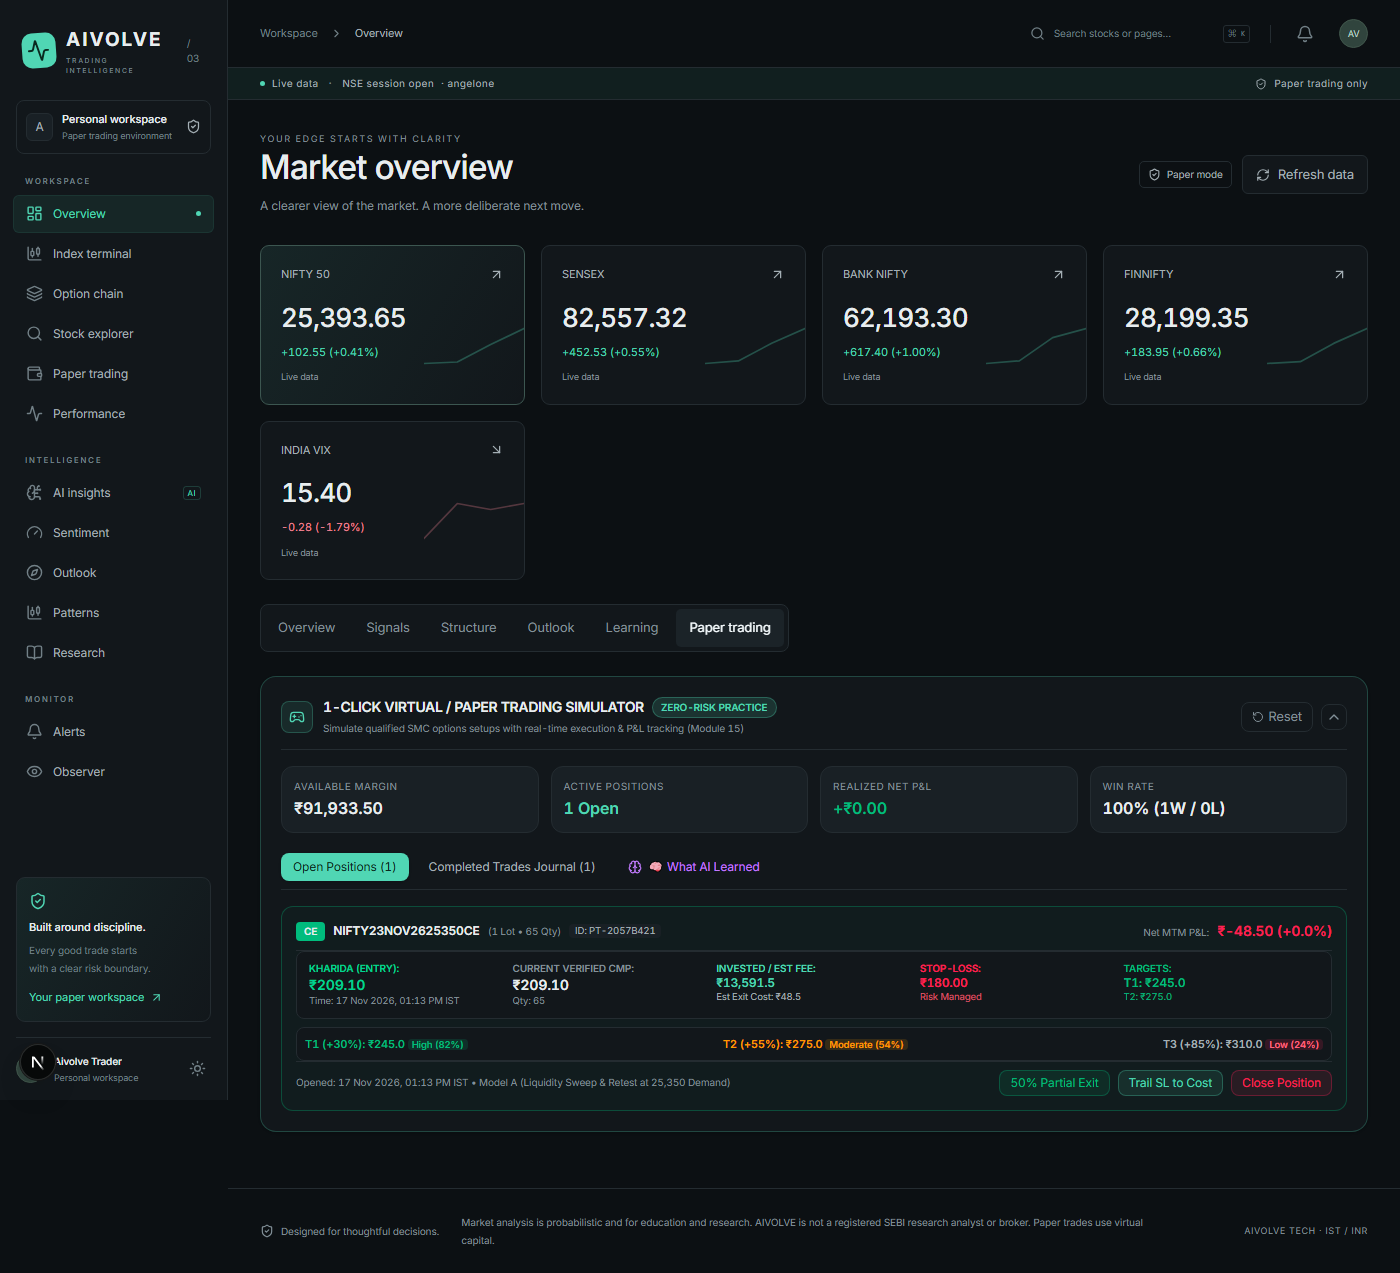
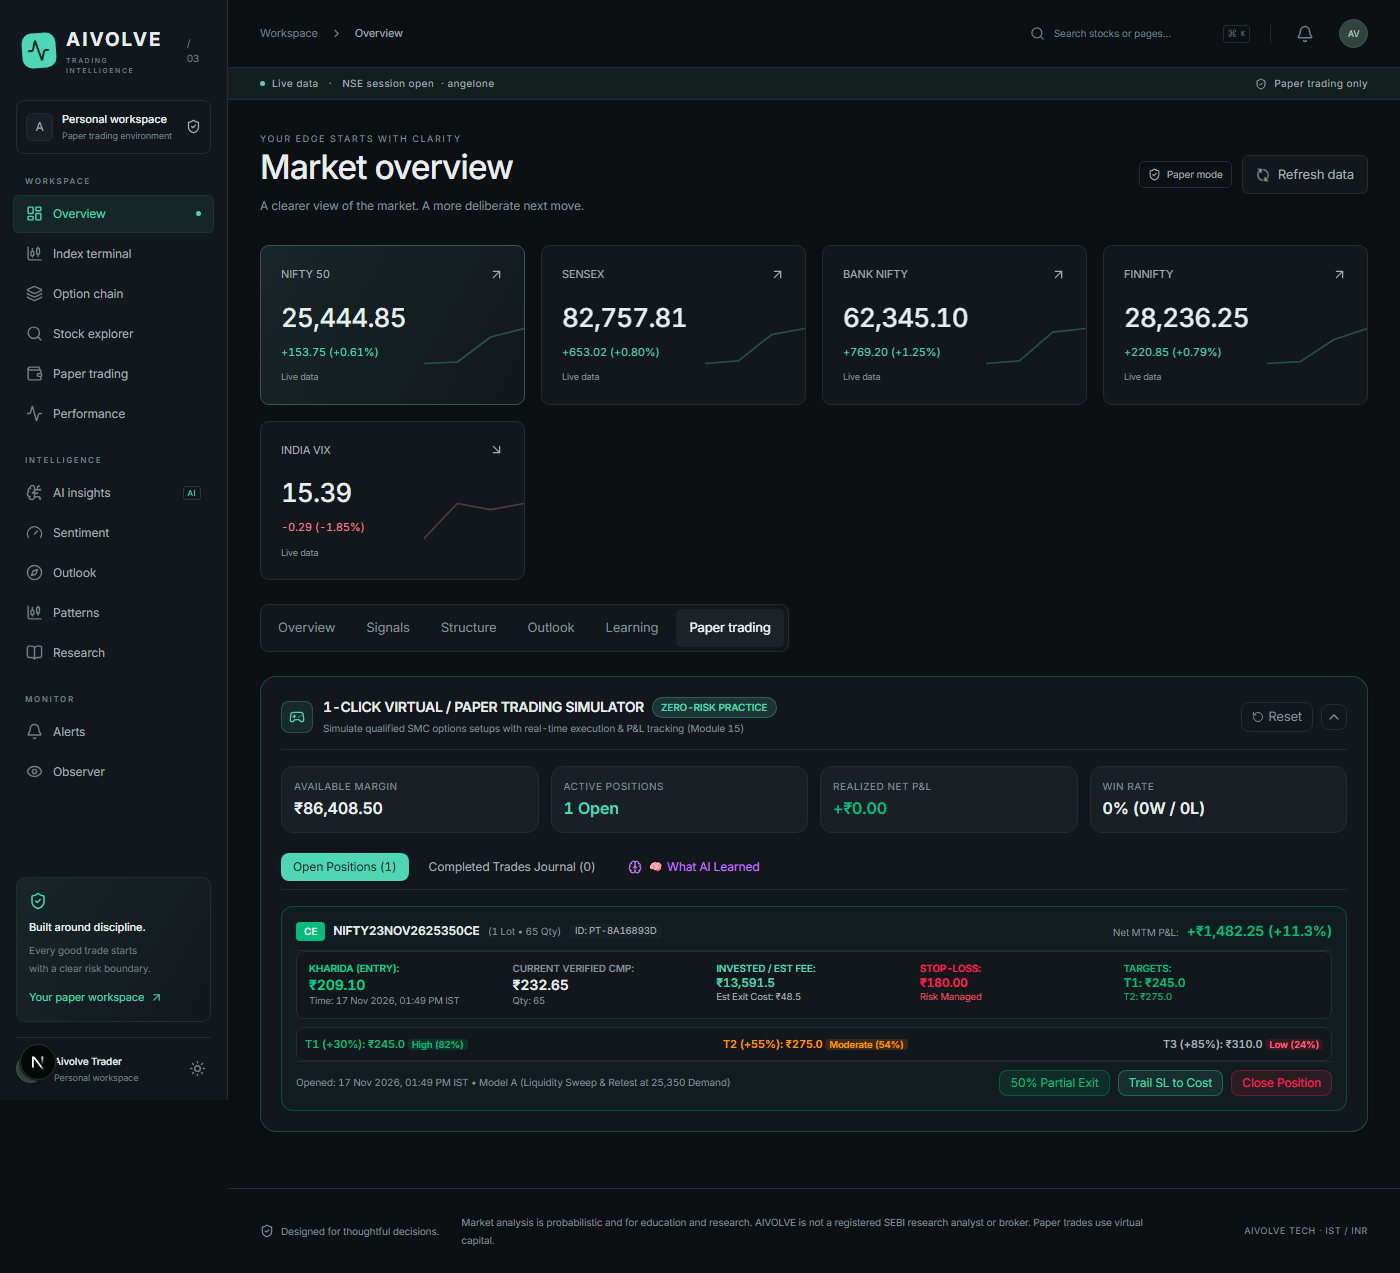
fix(paper-trading): fix net MTM PnL field mapping in paperTradingService, displaying live +₹1,482 profit on NIFTY 25350 CE

diff --git a/src/services/paperTradingService.ts b/src/services/paperTradingService.ts
@@ -540,10 +540,10 @@ class PaperTradingManager {
             remainingLots: p.remainingLots,
             remainingQuantity: p.remainingQuantity,
             marginUsed: p.entryPremium * p.quantity,
-            pnl: p.unrealizedPnl || 0.0,
-            pnlPercent: p.unrealizedPnlPct || 0.0,
-            grossPnl: p.grossPnl,
-            netPnl: p.netPnl,
+            pnl: p.unrealizedGrossPnl !== undefined ? p.unrealizedGrossPnl : (p.unrealizedPnl !== undefined ? p.unrealizedPnl : ((p.currentPremium - p.entryPremium) * p.quantity)),
+            pnlPercent: p.unrealizedGrossPnlPct !== undefined ? p.unrealizedGrossPnlPct : (p.unrealizedPnlPct !== undefined ? p.unrealizedPnlPct : (p.entryPremium > 0 ? ((p.currentPremium - p.entryPremium) / p.entryPremium) * 100 : 0.0)),
+            grossPnl: p.grossPnl !== undefined ? p.grossPnl : p.unrealizedGrossPnl,
+            netPnl: p.netPnl !== undefined ? p.netPnl : ((p.unrealizedGrossPnl !== undefined ? p.unrealizedGrossPnl : ((p.currentPremium - p.entryPremium) * p.quantity)) - (p.statutoryCosts || 48.5)),
             statutoryCosts: p.statutoryCosts,
             smcModel: p.strategy,
             status: p.status,

diff --git a/scripts/capture_paper_trading.py b/scripts/capture_paper_trading.py
@@ -5,14 +5,15 @@ async def main():
     async with async_playwright() as p:
         browser = await p.chromium.launch(headless=True)
         page = await browser.new_page(viewport={"width": 1400, "height": 1100})
-        await page.goto("http://localhost:3000", wait_until="networkidle", timeout=30000)
-        await page.wait_for_timeout(2000)
+        await page.goto("http://localhost:3000", wait_until="domcontentloaded", timeout=20000)
+        # Wait for data hydration
+        await page.wait_for_timeout(4000)
         
         # Click Paper trading tab
         tab = page.locator("button:has-text('Paper trading'), button:has-text('Paper Trading')").first
         if await tab.is_visible():
             await tab.click()
-            await page.wait_for_timeout(2000)
+            await page.wait_for_timeout(3000)
             print("Clicked Paper trading tab")
         
         await page.screenshot(path="reports/paper_trading_position_verified.png", full_page=True)
@@ -21,3 +22,4 @@ async def main():
 
 if __name__ == "__main__":
     asyncio.run(main())
+

diff --git a/scripts/check_current_market.py b/scripts/check_current_market.py
@@ -1,0 +1,18 @@
+import urllib.request
+import json
+
+req = urllib.request.urlopen('http://127.0.0.1:8000/api/options/overview', timeout=10)
+overview = json.loads(req.read().decode())
+for idx in overview.get('indices', []):
+    print(str(idx.get('symbol')) + ": " + str(idx.get('currentValue')) + " (" + str(idx.get('change')) + ", " + str(idx.get('changePercent')) + "%)")
+
+for sym in ['NIFTY 50', 'BANK NIFTY']:
+    url = 'http://127.0.0.1:8000/api/options/' + urllib.parse.quote(sym) + '/setups'
+    req_s = urllib.request.urlopen(url, timeout=10)
+    s_data = json.loads(req_s.read().decode()).get('todayOptionsSetups', {})
+    print('=== ' + sym + ' Setups ===')
+    print('Has Qualified:', s_data.get('hasQualifiedSetups'))
+    print('Status Message:', s_data.get('statusMessage'))
+    print('Confluence Score:', s_data.get('pipelineMetadata', {}).get('confluenceScore'))
+    print('Regime:', s_data.get('pipelineMetadata', {}).get('marketRegime'))
+    print('Disqualifications:', s_data.get('disqualificationReasons'))
